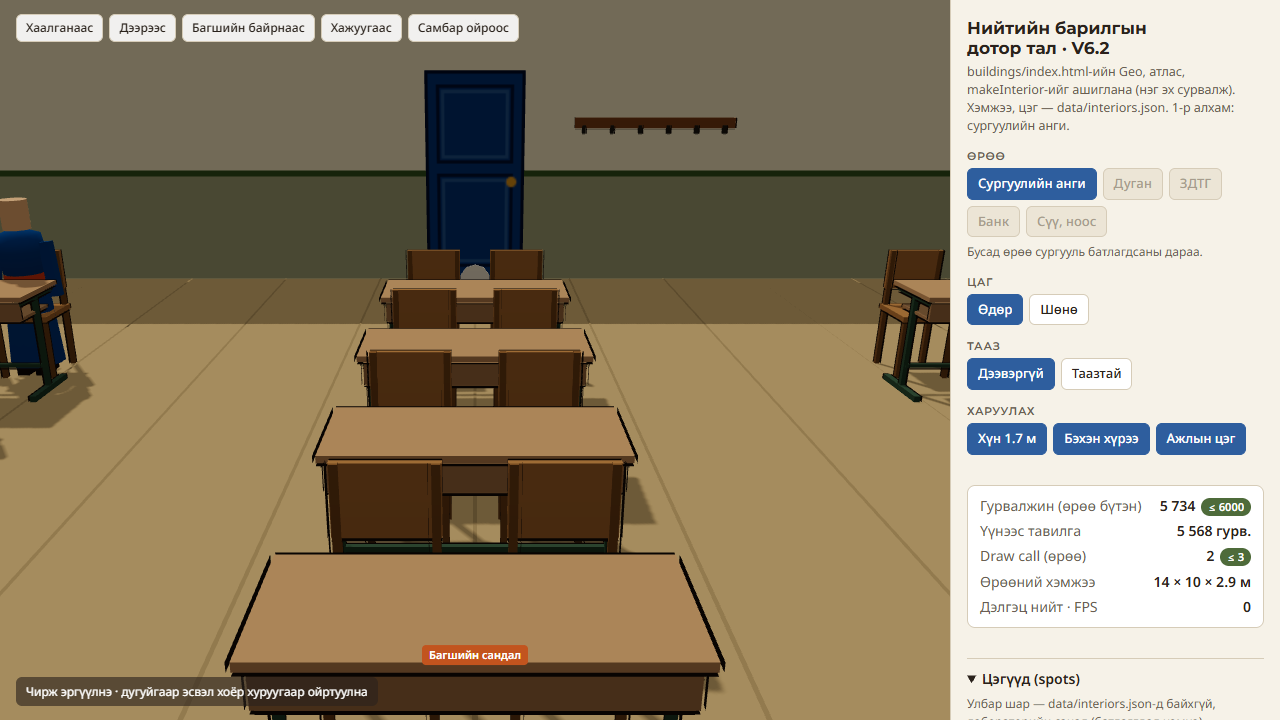
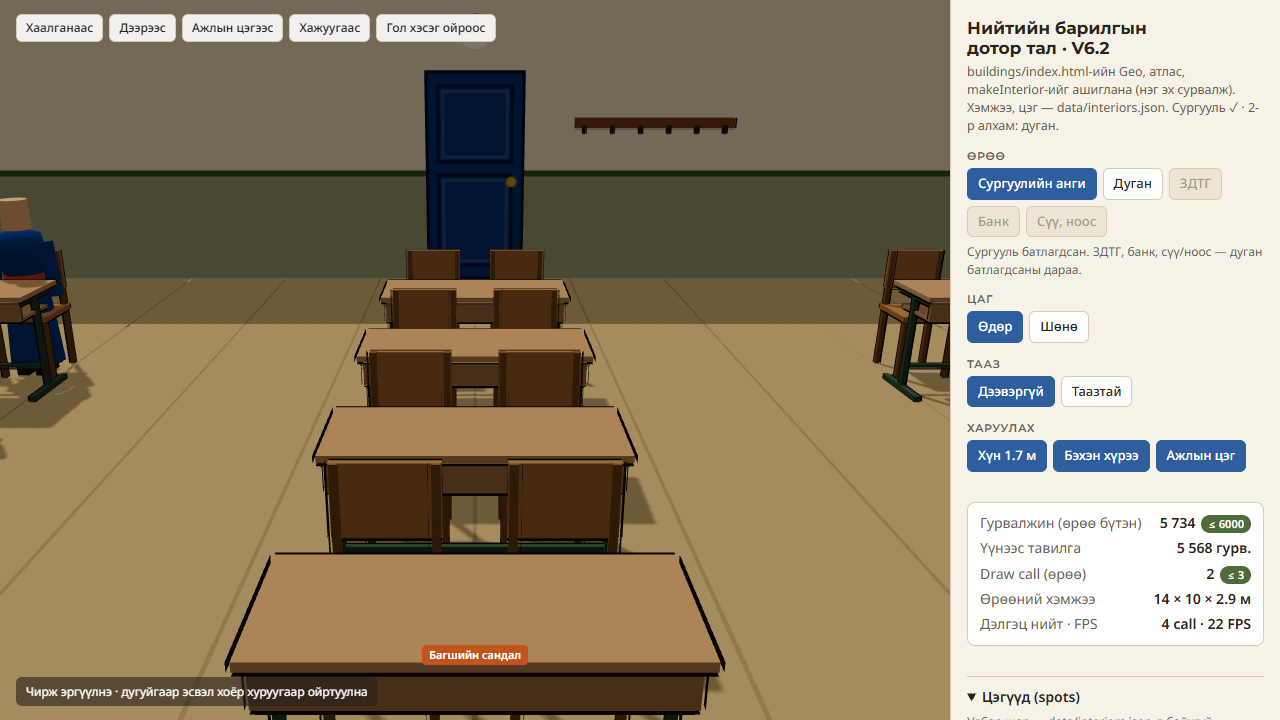
feat(lab): V6.2 дуганы дотор тал (батлагдсан) — тахил, олбог суудлын эгнээ, ламын суудал, хэнгэрэг, хүрд, багана, ялгаа
- хүрдний бичгийн зурвас тойргийн уртад харьцаагаа хадгална (давтагдаж сунахгүй)
- таазтай үед камер өрөөн дотор (гэрэлтүүлэгчийн бараан зурвас гарахгүй)
- buildings Geo-д cy/ty байхгүй тул y-шилжилтийн туслах (сургуулийн цаг шалнаас хаалганы дээр)
- V.md V6.2: сургууль, дуганы тохиргоо ба data/interiors.json-д нэмэх spot жагсаалт
- зураг tools/shots/furniture/

diff --git a/tools/character-lab/furniture.html b/tools/character-lab/furniture.html
@@ -62,9 +62,9 @@ td.new{color:#B0601E;font-weight:600}
   <div id="views">
     <button type="button" id="view-door">Хаалганаас</button>
     <button type="button" id="view-top">Дээрээс</button>
-    <button type="button" id="view-teacher">Багшийн байрнаас</button>
+    <button type="button" id="view-work">Ажлын цэгээс</button>
     <button type="button" id="view-side">Хажуугаас</button>
-    <button type="button" id="view-board">Самбар ойроос</button>
+    <button type="button" id="view-focus">Гол хэсэг ойроос</button>
   </div>
   <div id="tags"></div>
   <div id="hint">Чирж эргүүлнэ · дугуйгаар эсвэл хоёр хуруугаар ойртуулна</div>
@@ -73,10 +73,10 @@ td.new{color:#B0601E;font-weight:600}
 <aside>
   <div>
     <h1>Нийтийн барилгын дотор тал · V6.2</h1>
-    <p class="sub">buildings/index.html-ийн Geo, атлас, makeInterior-ийг ашиглана (нэг эх сурвалж). Хэмжээ, цэг — data/interiors.json. 1-р алхам: сургуулийн анги.</p>
+    <p class="sub">buildings/index.html-ийн Geo, атлас, makeInterior-ийг ашиглана (нэг эх сурвалж). Хэмжээ, цэг — data/interiors.json. Сургууль ✓ · 2-р алхам: дуган.</p>
   </div>
   <fieldset><legend>Өрөө</legend><div class="seg" id="g-room"></div>
-    <p class="note">Бусад өрөө сургууль батлагдсаны дараа.</p></fieldset>
+    <p class="note">Сургууль батлагдсан. ЗДТГ, банк, сүү/ноос — дуган батлагдсаны дараа.</p></fieldset>
   <fieldset><legend>Цаг</legend><div class="seg" id="g-time"></div></fieldset>
   <fieldset><legend>Тааз</legend><div class="seg" id="g-roof"></div></fieldset>
   <fieldset><legend>Харуулах</legend><div class="seg" id="g-show"></div></fieldset>
@@ -104,7 +104,7 @@ async function loadBuildingLib() {
   let code = src.match(/<script type="module">([\s\S]*?)<\/script>/)[1];
   code = code.slice(0, code.indexOf("const canvas = document.getElementById('c')"));
   code = code.replace(/from '\.\/ger\.js'/, `from '${new URL('./buildings/ger.js', location.href)}'`);
-  code += '\nexport { THREE, BUILDING_CONFIG, Geo, rgb, mix, px2uv, panel, shadeDown, sc, buildingAtlas, makeInterior, makeScaleFigure };\n';
+  code += '\nexport { THREE, BUILDING_CONFIG, Geo, rgb, mix, px2uv, panel, shadeDown, sc, buildingAtlas, makeInterior, makeScaleFigure, signRect };\n';
   return import(URL.createObjectURL(new Blob([code], { type: 'text/javascript' })));
 }
 const L = await loadBuildingLib();
@@ -124,8 +124,34 @@ const PUBLIC_INTERIOR = {
     radiator: '#E8E2D4', bookcase: { x: -6.55, z: 2.6, w: 1.6 }, map: { z: -1.2, w: 1.7, h: 1.05 },
     lamps: [[-3.5, -1.5], [3.5, -1.5], [-3.5, 1.5], [3.5, 1.5]],
     work: [{ id: 'teacher_board', label: 'Багш (самбарын өмнө)', x: -1.25, z: -4.1, rot: 0 }, { id: 'teacher_chair', label: 'Багшийн сандал', x: 0, z: -3.85, rot: 0 }],
+    figures: [{ x: -1.25, z: -4.1, rot: 0, h: 1.7 }, { x: -3.8, z: -0.38, rot: Math.PI, h: 1.25 }, { x: 3.2, z: 2.02, rot: Math.PI, h: 1.25 }],
+    views: { door: [0.0, 1.2, 7.4, [0, 1.1, -0.6]], top: [0.0, 0.1, 15.5, [0, 0, 0]], work: [Math.PI, 1.25, 3.3, [0, 1.05, -0.9]], side: [1.5, 1.05, 12, [0, 0.9, 0]], focus: [0.0, 1.45, 4.0, [0, 1.4, -4.6]] },
+  },
+  /* Дуган: хойд хананд шатлалтай тахил (бурхан, гэрэлт хүрээ, долоон аяга, зул, цэцэг, хадаг), төв замын хоёр талд лам нарын
+   * олбог суудлын эгнээ (ширээ, судар), тахилын өмнө ширээт ламын өндөр суудал ба хэнгэрэг, 4 багана (хадаг, ялгаа), хаалганы дэргэд хүрд */
+  temple: {
+    door: { x: 0, w: 1.2, h: 2.3, atlas: 'pubDoor' }, windows: { sides: [1, -1], z: [-1.6, 1.4], w: 1.0, h: 1.0, sill: 1.75 },
+    gold: '#D9A93A', red: '#9A2A1E', maroon: '#6E1E22', yellow: '#E8B83A', blue: '#2E5E9E', green: '#3F7A5A', silk: '#A9CBE8', statue: '#D9A93A',
+    altar: { w: 3.4, d: 1.15, h1: 0.45, w2: 2.6, d2: 0.75, h2: 0.85, backH: 3.2 },
+    rows: { len: 1.6, cushion: 0.62, tableOff: 0.62 },
+    pillars: { x: 1.6, z: [-1.6, 1.4], size: 0.22 }, wheel: { x: 3.75, z: 3.45, r: 0.34, h: 1.1, bandH: 0.5 },
+    lamps: [[-1.6, 0], [1.6, 0], [0, -3.0], [0, 2.4]],
+    work: [{ id: 'lama_head', label: 'Ширээт лам (ламын суудал)', x: -2.82, z: -2.7, rot: Math.PI / 2 }, { id: 'lama_read', label: 'Лам ном уншина', x: -2.82, z: -1.0, rot: Math.PI / 2 },
+      { id: 'lama_drum', label: 'Лам хэнгэрэг цохино', x: 2.82, z: -2.7, rot: -Math.PI / 2 }, { id: 'pilgrim', label: 'Мөргөлчин (хандив · E)', x: 0, z: -1.9, rot: Math.PI }],
+    figures: [{ x: -2.82, z: -2.7, rot: Math.PI / 2, seated: 0.5 }, { x: -2.82, z: -1.33, rot: Math.PI / 2, seated: 0.2 }, { x: -2.82, z: -0.67, rot: Math.PI / 2, seated: 0.2 },
+      { x: 2.82, z: 0.47, rot: -Math.PI / 2, seated: 0.2 }, { x: 2.82, z: -2.7, rot: -Math.PI / 2, seated: 0.2 }, { x: 0, z: -1.9, rot: Math.PI, h: 1.7 }],
+    views: { door: [0.0, 1.15, 6.6, [0, 1.3, -1.0]], top: [0.0, 0.1, 12.5, [0, 0, 0]], work: [-1.3, 1.3, 2.4, [-2.2, 1.0, -2.3]], side: [1.5, 1.05, 10, [0, 1.0, 0]], focus: [0.0, 1.42, 3.4, [0, 1.35, -3.8]] },
   },
 };
+/** buildings Geo-д lathe cy, append ty байхгүй: профайл/оройг y-ээр шилжүүлнэ */
+const lth = (G, o) => G.lathe({ ...o, profile: o.profile.map(([r, y]) => [r, y + (o.cy || 0)]) });
+const appendY = (G, q, phi, x, z, y = 0) => { if (y) for (let i = 1; i < q.p.length; i += 3) q.p[i] += y; G.append(q, phi, x, z); };
+/** Хөндлөн дугуй хавтан (+Z руу харсан): гэрэлт хүрээ, бөмбөр, цаг — босоо lathe-ийг эргүүлнэ */
+function discZ(g, x, y, z, profile, colorAt, segs = 16, dir = 1) {   // dir: +1 — нүүр +Z (хойд хананд), −1 — нүүр −Z (урд хананд)
+  const q = new Geo(px2uv(...BC.atlas.white)); q.lathe({ segs, smooth: false, profile, colorAt, color: colorAt ? undefined : [1, 1, 1] });
+  for (let i = 0; i < q.p.length; i += 3) { const yy = q.p[i + 1], zz = q.p[i + 2], ny = q.n[i + 1], nz = q.n[i + 2]; q.p[i + 1] = -zz * dir; q.p[i + 2] = yy * dir; q.n[i + 1] = -nz * dir; q.n[i + 2] = ny * dir; }
+  appendY(g, q, 0, x, z, y);
+}
 
 /** Монгол улсын хилийн ойролцоо хэлбэр (газрын зургийн самбарт): [x, y] 0…1 */
 const MN_SHAPE = [[0.02, 0.62], [0.1, 0.8], [0.22, 0.9], [0.34, 0.86], [0.46, 0.94], [0.56, 0.86], [0.66, 0.88], [0.78, 0.8], [0.9, 0.74], [0.98, 0.6], [0.92, 0.48], [0.8, 0.44], [0.7, 0.3], [0.56, 0.12], [0.42, 0.1], [0.3, 0.2], [0.16, 0.34], [0.06, 0.44]];
@@ -149,11 +175,12 @@ function makeInteriorEx(kind, room) {
   const D = T.door, W = T.windows, tr = rgb(BC.palette.trim, 0.7), sill = rgb('#F4F1EA');
   wallHoles([-hw, -hd], [hw, -hd], [0, 0, 1], []);                                                                       // хойд (самбар)
   wallHoles([-hw, hd], [hw, hd], [0, 0, -1], [{ a0: hw + D.x - D.w / 2, a1: hw + D.x + D.w / 2, y0: 0, y1: D.h }]);        // урд: хаалга
-  const wx = W.side * hw, winHoles = W.z.map(z => ({ a0: hd + z - W.w / 2, a1: hd + z + W.w / 2, y0: W.sill, y1: W.sill + W.h }));
-  wallHoles([wx, -hd], [wx, hd], [-W.side, 0, 0], W.side > 0 ? winHoles : []); wallHoles([-wx, -hd], [-wx, hd], [W.side, 0, 0], W.side > 0 ? [] : winHoles);
-  for (const z of W.z) { panel(shell, [wx, W.sill + W.h / 2, z], [-W.side, 0, 0], W.w / 2, W.h / 2, 0.03, A.window, tr);   // цонх (атлас), тавцан
-    B(wx - W.side * 0.22, W.sill - 0.04, z - W.w / 2 - 0.06, wx, W.sill, z + W.w / 2 + 0.06, sill, shell); }
-  panel(shell, [D.x, D.h / 2, hd], [0, 0, -1], D.w / 2, D.h / 2, 0.03, A.door, tr);                                       // хаалга (атлас)
+  const sides = W.sides ?? [W.side], winHoles = W.z.map(z => ({ a0: hd + z - W.w / 2, a1: hd + z + W.w / 2, y0: W.sill, y1: W.sill + W.h }));
+  for (const sx of [1, -1]) wallHoles([sx * hw, -hd], [sx * hw, hd], [-sx, 0, 0], sides.includes(sx) ? winHoles : []);
+  for (const sx of sides) for (const z of W.z) { const wx = sx * hw;
+    panel(shell, [wx, W.sill + W.h / 2, z], [-sx, 0, 0], W.w / 2, W.h / 2, 0.03, A.window, tr);                         // цонх (атлас), тавцан
+    B(Math.min(wx, wx - sx * 0.22), W.sill - 0.04, z - W.w / 2 - 0.06, Math.max(wx, wx - sx * 0.22), W.sill, z + W.w / 2 + 0.06, sill, shell); }
+  panel(shell, [D.x, D.h / 2, hd], [0, 0, -1], D.w / 2, D.h / 2, 0.03, A[D.atlas ?? 'door'], tr);                        // хаалга (атлас)
   // шал (банз), тааз, хормой
   shell.quad([[-hw, 0, -hd], [hw, 0, -hd], [hw, 0, hd], [-hw, 0, hd]], [0, 1, 0], rgb(room.floor));
   for (let k = 1; k < 14; k++) { const x = -hw + k * room.w / 14; shell.quad([[x - 0.01, 0.002, -hd], [x + 0.01, 0.002, -hd], [x + 0.01, 0.002, hd], [x - 0.01, 0.002, hd]], [0, 1, 0], sc(rgb(room.floor), 0.78)); }
@@ -163,7 +190,7 @@ function makeInteriorEx(kind, room) {
     ceil.box(lx, H - 0.09, lz, 1.18, 0.02, 0.12, [1, 1, 1]); for (let i = ceil.u.length - 72; i < ceil.u.length; i += 2) { ceil.u[i] = lu[0]; ceil.u[i + 1] = lu[1]; }   // гэрэлтэх хэсэг: атласын чийдэн (шөнө гэрэлтэнэ)
     lights.push(new THREE.Vector3(lx, H - 0.3, lz)); }
   const work = T.work.map(w => ({ ...w }));
-  const placed = kind === 'school' ? furnishSchool(g, T, room, B) : [];
+  const placed = { school: furnishSchool, temple: furnishTemple }[kind](g, T, room, B);
   return { shell, ceil, furn: g, lights, work, placed, floorY: 0, ceilY: H };
 }
 
@@ -225,7 +252,7 @@ function furnishSchool(g, T, room, B) {
   { const z = hd - 0.02; B(-2.6, 1.55, z - 0.04, -1.0, 1.65, z, C('#9A6A42')); for (let k = 0; k < 6; k++) B(-2.5 + k * 0.28, 1.5, z - 0.1, -2.47 + k * 0.28, 1.58, z - 0.04, C('#4A4640'));
     { const q = new Geo(px2uv(...BC.atlas.white)); q.lathe({ segs: 10, smooth: false, profile: [[0.16, 0], [0.16, 0.03], [0, 0.03]], color: C('#F4F1EA') });   // цагийн нүүр: босоо lathe-ийг хананд наах (y → −z)
       for (let i = 0; i < q.p.length; i += 3) { const yy = q.p[i + 1], zz = q.p[i + 2], ny = q.n[i + 1], nz = q.n[i + 2]; q.p[i + 1] = zz; q.p[i + 2] = -yy; q.n[i + 1] = nz; q.n[i + 2] = -ny; }
-      g.append(q, 0, 0, z, 2.45); }
+      appendY(g, q, 0, 0, z, 2.45); }
     B(-0.005, 2.45, z - 0.055, 0.005, 2.56, z - 0.045, C('#2A2622')); B(-0.005, 2.445, z - 0.055, 0.07, 2.455, z - 0.045, C('#2A2622')); }
   return placed;
 }
@@ -243,6 +270,123 @@ function studentDesk(g, x, z, K) {
   g.box(x, K.h - 0.1, z - K.d / 2 + 0.03, K.w - 0.06, 0.12, 0.02, sc(top, 0.8));
   for (const sx of [-1, 1]) { const lx = x + sx * (K.w / 2 - 0.04); g.box(lx, (K.h - 0.03) / 2, z, 0.03, K.h - 0.03, 0.03, fr); g.box(lx, 0.02, z, 0.04, 0.04, K.d - 0.04, fr); g.box(lx, K.h - 0.05, z, 0.03, 0.03, K.d - 0.06, fr); }
   g.box(x, 0.18, z, K.w - 0.08, 0.025, 0.025, fr);
+}
+
+/* ---------- Дуган ---------- */
+function furnishTemple(g, T, room, B) {
+  const pan = (c, n, hx, hy, out, r, side) => panel(g, c, n, hx, hy, out, r, side ?? rgb(T.gold));   // panel: хажуугийн өнгө алт
+  const hw = room.w / 2, hd = room.d / 2, H = room.h, A = BC.atlas, C = rgb, spot = id => room.spots.find(s => s.id === id), placed = [];
+  const gold = C(T.gold), red = C(T.red), maroon = C(T.maroon), yellow = C(T.yellow), blue = C(T.blue), green = C(T.green), silk = C(T.silk), lu = px2uv(...A.lamp);
+  const W = px2uv(...A.white), sub = () => new Geo(W);
+  const flame = (q, x, y, z) => { const n0 = q.u.length; lth(q, { segs: 5, cx: x, cz: z, cy: y, color: C('#FFB35C'), profile: [[0.012, 0], [0.018, 0.025], [0, 0.06]] }); for (let i = n0; i < q.u.length; i += 2) { q.u[i] = lu[0]; q.u[i + 1] = lu[1]; } };   // гал: атласын чийдэн (шөнө гэрэлтэнэ)
+  const zul = (q, x, y, z) => { lth(q, { segs: 6, cx: x, cz: z, cy: y, color: gold, smooth: false, profile: [[0.04, 0], [0.025, 0.02], [0.012, 0.07], [0.045, 0.1], [0.05, 0.13], [0, 0.125]] }); flame(q, x, y + 0.125, z); };
+  // ===== тахил (хойд хананд, spot altar-ын x): хоёр шат, хээтэй нүүр, ар хөшиг, гэрэлт хүрээ, бурхан, тахилын эд =====
+  { const s = spot('altar'), Al = T.altar, ax = s.x, bz = -hd;
+    B(ax - Al.w / 2, 0, bz, ax + Al.w / 2, Al.h1, bz + Al.d, maroon);
+    for (let k = 0; k < 4; k++) pan([ax - Al.w / 2 + Al.w * (k + 0.5) / 4, Al.h1 / 2, bz + Al.d], [0, 0, 1], Al.w / 8 - 0.05, Al.h1 / 2 - 0.06, 0.005, A.ornament);
+    B(ax - Al.w / 2 - 0.02, Al.h1, bz, ax + Al.w / 2 + 0.02, Al.h1 + 0.03, bz + Al.d + 0.02, gold);
+    B(ax - Al.w2 / 2, Al.h1, bz, ax + Al.w2 / 2, Al.h2, bz + Al.d2, red);
+    for (let k = 0; k < 3; k++) pan([ax - Al.w2 / 2 + Al.w2 * (k + 0.5) / 3, (Al.h1 + Al.h2) / 2, bz + Al.d2], [0, 0, 1], Al.w2 / 6 - 0.05, (Al.h2 - Al.h1) / 2 - 0.05, 0.005, A.ornament);
+    B(ax - Al.w2 / 2 - 0.02, Al.h2, bz, ax + Al.w2 / 2 + 0.02, Al.h2 + 0.03, bz + Al.d2 + 0.02, gold);
+    // ар хөшиг: бараан улаан хавтан, алтан хүрээ, дээд талын хээтэй хөндлөвч
+    B(ax - Al.w / 2, Al.h1, bz, ax + Al.w / 2, Al.backH, bz + 0.05, C('#5A1A16')); B(ax - Al.w / 2 - 0.05, Al.backH, bz, ax + Al.w / 2 + 0.05, Al.backH + 0.2, bz + 0.1, gold);
+    pan([ax, Al.backH + 0.1, bz + 0.1], [0, 0, 1], Al.w / 2, 0.08, 0.005, A.ornament);
+    for (const sx of [-1, 1]) B(ax + sx * Al.w / 2 - 0.06, Al.h1, bz, ax + sx * Al.w / 2 + 0.06, Al.backH, bz + 0.1, gold);
+    // гэрэлт хүрээ (бие, толгой): өнгөт цагиргууд
+    const sy = Al.h2 + 0.03, cz = bz + 0.36;
+    discZ(g, ax, sy + 0.62, bz + 0.07, [[0.82, 0], [0.82, 0.015], [0.7, 0.015], [0.58, 0.015], [0, 0.015]], i => [gold, gold, C('#4F8FC0'), green][i] ?? green, 20);
+    discZ(g, ax, sy + 1.12, bz + 0.09, [[0.3, 0], [0.3, 0.015], [0.22, 0.015], [0, 0.015]], i => [gold, gold, C('#E07A3A')][i], 16);
+    // бурхан: дэлбээт суурь, завилсан хөл, бие, толгой (хөх үс, оройн товойлт), өвөр дээрх гар
+    const q = sub(), st = C(T.statue), stD = sc(st, 0.82);
+    lth(q, { segs: 12, profile: [[0.5, 0], [0.55, 0.05], [0.5, 0.1], [0.42, 0.16], [0.36, 0.18]], colorAt: i => (i % 2 ? C('#D9707A') : gold) });   // дэлбээт суурь
+    lth(q, { segs: 12, profile: [[0.42, 0.18], [0.47, 0.24], [0.4, 0.33], [0.2, 0.36], [0, 0.36]], color: stD });   // хөл
+    lth(q, { segs: 12, profile: [[0.24, 0.32], [0.27, 0.45], [0.24, 0.62], [0.16, 0.74], [0.08, 0.79]], color: st });   // бие
+    lth(q, { segs: 12, profile: [[0.08, 0.78], [0.12, 0.84], [0.135, 0.92], [0.12, 0.99], [0.1, 1.01], [0.06, 1.05], [0.065, 1.08], [0, 1.12]], colorAt: i => (i >= 3 ? C('#2E4A8E') : st) });   // толгой
+    q.box(0, 0.4, 0.2, 0.26, 0.06, 0.12, st); q.box(0, 0.37, 0.27, 0.34, 0.02, 0.1, silk);                                    // гар, өвөр дээрх хадаг
+    for (let i = 0; i < q.p.length; i += 3) { q.p[i + 2] *= 0.72; }
+    appendY(g, q, 0, ax, cz, sy);
+    // тахилын эд: доод шатанд долоон аяга, хоёр талд зул; дунд шатанд цэцэгтэй ваар, жимсний таваг, хүж; хадаг унжина
+    const fz = bz + Al.d - 0.18;
+    for (let k = 0; k < 7; k++) lth(g, { segs: 7, cx: ax - 0.78 + k * 0.26, cz: fz, cy: Al.h1 + 0.03, color: gold, smooth: false, profile: [[0.035, 0], [0.06, 0.055], [0.052, 0.055], [0, 0.048]] });
+    for (const x of [-1.45, -1.22, 1.22, 1.45]) zul(g, ax + x, Al.h1 + 0.03, fz);
+    for (const sx of [-1, 1]) { const vx = ax + sx * 1.0, vz = bz + Al.d2 - 0.2;
+      lth(g, { segs: 8, cx: vx, cz: vz, cy: Al.h2 + 0.03, color: C('#4F8FC0'), profile: [[0.06, 0], [0.09, 0.08], [0.05, 0.18], [0.04, 0.22], [0.06, 0.25], [0, 0.25]] });
+      for (let k = 0; k < 5; k++) { const a = k * 1.256; g.box(vx + Math.sin(a) * 0.07, Al.h2 + 0.33 + (k % 2) * 0.04, vz + Math.cos(a) * 0.07, 0.07, 0.06, 0.07, [C('#E05A6A'), yellow, C('#F4F1EA')][k % 3]); }
+      lth(g, { segs: 8, cx: ax + sx * 0.62, cz: vz + 0.08, cy: Al.h2 + 0.03, color: gold, smooth: false, profile: [[0.13, 0], [0.14, 0.03], [0, 0.03]] });
+      for (let k = 0; k < 3; k++) g.box(ax + sx * 0.62 + (k - 1) * 0.06, Al.h2 + 0.08, vz + 0.08, 0.06, 0.06, 0.06, [C('#D9622B'), C('#B5402A'), yellow][k]);
+      g.beam([ax + sx * 0.55, Al.h2 + 0.02, bz + Al.d2 + 0.01], [ax + sx * 0.6, Al.h1 + 0.06, bz + Al.d2 + 0.03], 0.13, 0.008, silk);   // унжсан хадаг
+      zul(g, ax + sx * 1.22, Al.h2 + 0.03, bz + Al.d2 - 0.12); }
+    lth(g, { segs: 7, cx: ax, cz: bz + Al.d - 0.05, cy: Al.h1 + 0.03, color: C('#8A6A3A'), profile: [[0.07, 0], [0.08, 0.08], [0, 0.08]] });
+    for (let k = 0; k < 3; k++) g.beam([ax - 0.02 + k * 0.02, Al.h1 + 0.1, bz + Al.d - 0.05], [ax - 0.05 + k * 0.05, Al.h1 + 0.36, bz + Al.d - 0.08], 0.006, 0.006, C('#B5402A'));   // хүж
+    placed.push({ ...s, note: 'хойд хананд' }); }
+  // ===== хандивын хайрцаг (spot donation, мөргөлчний E цэг) =====
+  { const s = spot('donation'), x = s.x, z = s.z;
+    B(x - 0.28, 0, z - 0.2, x + 0.28, 0.5, z + 0.2, red); B(x - 0.3, 0.5, z - 0.22, x + 0.3, 0.54, z + 0.22, gold); B(x - 0.1, 0.54, z - 0.015, x + 0.1, 0.545, z + 0.015, C('#1A130D'));
+    pan([x, 0.27, z + 0.2], [0, 0, 1], 0.22, 0.17, 0.005, A.ornament); placed.push(s); }
+  // ===== олбог суудлын эгнээ: тавцан, олбог (хоёр лам), өмнө нь намхан ширээ, судар — төв зам руу харна =====
+  const R = T.rows;
+  for (const s of room.spots.filter(p => p.kind === 'seat')) { const x = s.x, z0 = s.z, f = x < 0 ? 1 : -1;   // f: харах тал (+X баруун эгнээ)
+    B(x - 0.38, 0, z0 - R.len / 2, x + 0.38, 0.1, z0 + R.len / 2, maroon);
+    for (const dz of [-R.len / 4, R.len / 4]) { const z = z0 + dz;
+      B(x - R.cushion / 2, 0.1, z - 0.36, x + R.cushion / 2, 0.2, z + 0.36, yellow); B(x - R.cushion / 2 + 0.03, 0.2, z - 0.33, x + R.cushion / 2 - 0.03, 0.205, z + 0.33, C('#C9402A'));
+      const tx = x + f * R.tableOff;   // ширээ
+      B(tx - 0.2, 0.3, z - 0.32, tx + 0.2, 0.36, z + 0.32, red); for (const sz of [-1, 1]) B(tx - 0.18, 0, z + sz * 0.28 - 0.025, tx + 0.18, 0.3, z + sz * 0.28 + 0.025, sc(red, 0.75));
+      pan([tx + f * 0.2, 0.17, z], [f, 0, 0], 0.26, 0.11, 0.004, A.ornament);
+      B(tx - 0.06, 0.36, z - 0.16, tx + 0.06, 0.42, z + 0.16, yellow); B(tx - 0.065, 0.39, z - 0.17, tx + 0.065, 0.4, z + 0.17, C('#B5402A')); }   // судар (боодолтой)
+    placed.push(s); }
+  // ===== ширээт ламын өндөр суудал (баруун эгнээний толгойд), эсрэг талд хэнгэрэг =====
+  { const w = T.work.find(p => p.id === 'lama_head'), x = w.x, z = w.z;
+    B(x - 0.42, 0, z - 0.42, x + 0.42, 0.45, z + 0.42, maroon); pan([x + 0.42, 0.22, z], [1, 0, 0], 0.36, 0.17, 0.005, A.ornament);
+    B(x - 0.4, 0.45, z - 0.4, x + 0.4, 0.55, z + 0.4, yellow); B(x - 0.48, 0.45, z - 0.44, x - 0.38, 1.25, z + 0.44, red); B(x - 0.5, 1.25, z - 0.46, x - 0.36, 1.3, z + 0.46, gold);
+    B(x + 0.62, 0.4, z - 0.3, x + 1.0, 0.48, z + 0.3, red); for (const sz of [-1, 1]) B(x + 0.64, 0, z + sz * 0.26 - 0.02, x + 0.98, 0.4, z + sz * 0.26 + 0.02, sc(red, 0.75));
+    B(x + 0.75, 0.48, z - 0.12, x + 0.87, 0.53, z + 0.12, yellow); lth(g, { segs: 6, cx: x + 0.82, cz: z + 0.22, cy: 0.48, color: gold, profile: [[0.03, 0], [0.04, 0.08], [0, 0.1]] });   // судар, хонх
+    placed.push({ id: w.id, kind: 'seat', x, z, rot: w.rot, proposed: true }); }
+  { const w = T.work.find(p => p.id === 'lama_drum'), x = w.x + -0.95, z = w.z, dr = 0.36;   // хэнгэрэг: хоёр шон, хөндлөвч, өлгөөтэй бөмбөр (лам руу харна)
+    for (const sz of [-1, 1]) B(x - 0.03, 0, z + sz * (dr + 0.1) - 0.03, x + 0.03, 1.3, z + sz * (dr + 0.1) + 0.03, red);
+    B(x - 0.03, 1.3, z - dr - 0.13, x + 0.03, 1.36, z + dr + 0.13, gold);
+    const q = sub(); lth(q, { segs: 14, smooth: false, profile: [[dr, -0.11], [dr + 0.02, -0.1], [dr + 0.02, 0.1], [dr, 0.11], [0, 0.11]], colorAt: i => (i === 1 ? red : i === 4 ? C('#E8DCC0') : gold) });
+    lth(q, { segs: 14, smooth: false, profile: [[0, -0.11], [dr, -0.11]], color: C('#E8DCC0') });
+    for (let i = 0; i < q.p.length; i += 3) { const px = q.p[i], py = q.p[i + 1], nx = q.n[i], ny = q.n[i + 1]; q.p[i] = py; q.p[i + 1] = -px; q.n[i] = ny; q.n[i + 1] = -nx; }   // тэнхлэг X
+    appendY(g, q, 0, x, z, 0.9); g.beam([x, 1.3, z], [x, 0.9 + dr, z], 0.02, 0.02, C('#3A2618'));
+    g.beam([x + 0.5, 0.25, z + 0.3], [x + 0.2, 0.75, z + 0.1], 0.02, 0.02, C('#C9A24E'));   // цохиур
+    placed.push({ id: 'drum', kind: 'drum', x, z, rot: -Math.PI / 2, proposed: true }); }
+  // ===== 4 багана: суурь, улаан бие, хөх-ногоон толгой, алтан хээ, хадаг уясан; дээр нь хөндлөн дам нуруу, унжсан ялгаа =====
+  const Pl = T.pillars;
+  for (const sx of [-1, 1]) { const x = sx * Pl.x, s2 = Pl.size / 2;
+    for (const z of Pl.z) { B(x - s2 - 0.05, 0, z - s2 - 0.05, x + s2 + 0.05, 0.12, z + s2 + 0.05, C('#8C8478')); B(x - s2, 0.12, z - s2, x + s2, H - 0.45, z + s2, red);
+      B(x - s2 - 0.02, H - 0.62, z - s2 - 0.02, x + s2 + 0.02, H - 0.52, z + s2 + 0.02, gold); B(x - s2 - 0.06, H - 0.52, z - s2 - 0.06, x + s2 + 0.06, H - 0.45, z + s2 + 0.06, green);
+      B(x - 0.35, H - 0.45, z - s2 - 0.04, x + 0.35, H - 0.32, z + s2 + 0.04, blue);
+      B(x - s2 - 0.012, 1.45, z - s2 - 0.012, x + s2 + 0.012, 1.55, z + s2 + 0.012, silk); g.beam([x + sx * (s2 + 0.01), 1.5, z + s2], [x + sx * (s2 + 0.02), 0.95, z + s2 + 0.05], 0.1, 0.006, silk); }
+    B(x - 0.1, H - 0.32, -hd, x + 0.1, H - 0.1, hd, red); B(x - 0.105, H - 0.26, -hd, x + 0.105, H - 0.2, hd, gold);   // дам нуруу
+    { const bz = (Pl.z[0] + Pl.z[1]) / 2, top = H - 0.32, cols = [yellow, red, blue, green, C('#F4F1EA')];   // ялгаа: давхар өнгөт цилиндр
+      lth(g, { segs: 10, cx: x, cz: bz, cy: 0, profile: [[0, top - 1.02], [0.2, top - 1.0], [0.23, top - 0.82], [0.21, top - 0.8], [0.21, top - 0.54], [0.19, top - 0.52], [0.19, top - 0.3], [0.17, top - 0.28], [0.17, top - 0.04], [0.02, top]], colorAt: i => cols[(8 - i) % cols.length], smooth: false });   /* доороос дээш (нормал гадагш) */ } }
+  // ===== улаан хивс (төв зам) =====
+  B(-0.8, 0.002, -hd + T.altar.d + 0.15, 0.8, 0.012, hd - 0.5, C('#8A2A2E')); for (const sx of [-1, 1]) B(sx * 0.8 - 0.06, 0.003, -hd + T.altar.d + 0.15, sx * 0.8, 0.014, hd - 0.5, gold);
+  // ===== танка (хажуу хананд, цонхны хооронд): торгон хүрээ, зураг (атласын niche) =====
+  for (const sx of [-1, 1]) { const x = sx * hw - sx * 0.02, z = (T.windows.z[0] + T.windows.z[1]) / 2, y = 1.75;
+    B(Math.min(x, x - sx * 0.02), y - 0.75, z - 0.45, Math.max(x, x - sx * 0.02), y + 0.75, z + 0.45, blue); B(Math.min(x, x - sx * 0.03), y - 0.62, z - 0.36, Math.max(x, x - sx * 0.03), y + 0.62, z + 0.36, yellow);
+    pan([x - sx * 0.03, y + 0.03, z], [-sx, 0, 0], 0.3, 0.52, 0.005, A.niche); g.beam([x - sx * 0.04, y + 0.8, z - 0.5], [x - sx * 0.04, y + 0.8, z + 0.5], 0.03, 0.03, C('#3A2618')); }
+  // ===== хүрд (хаалганы дэргэд): тавцан, хүрээ, бичигтэй цилиндр (атласын wheelBand), алтан таг =====
+  { const K = T.wheel, x = K.x, z = K.z, r = K.r, h = K.h, v0 = 1 - (A.wheelBand[1] - 1) / A.h, v1 = 1 - (A.wheelBand[0] + 1) / A.h;
+    B(x - 0.5, 0, z - 0.5, x + 0.5, 0.12, z + 0.5, C('#8C8478'));
+    const bh = K.bandH, a = (h - bh) / 2, e = 0.0005, bandLen = (A.size * bh) / (A.wheelBand[1] - A.wheelBand[0]), ku = Math.min(1, (2 * Math.PI * r) / bandLen), wu = px2uv(...A.white);
+    lth(g, { segs: 14, cx: x, cz: z, cy: 0.22, smooth: false, profile: [[r, 0], [r, a], [r, a + e], [r, a + bh], [r, a + bh + e], [r, h]],   // доор/дээр улаан, голд бичгийн зурвас (харьцаа хадгална)
+      colorAt: i => (i === 2 ? [1, 1, 1] : i === 0 || i === 4 ? red : gold), uvAt: (pi, f) => (pi === 2 ? [f * ku, v0] : pi === 3 ? [f * ku, v1] : wu) });
+    lth(g, { segs: 14, cx: x, cz: z, cy: 0.12, color: gold, smooth: false, profile: [[r + 0.03, 0], [r + 0.03, 0.1], [0, 0.1]] });
+    lth(g, { segs: 14, cx: x, cz: z, cy: 0.22 + h, color: gold, smooth: false, profile: [[r + 0.03, 0], [r + 0.03, 0.08], [r * 0.5, 0.18], [0.04, 0.24], [0, 0.3]] });
+    for (const [px, pz] of [[-1, -1], [1, -1], [-1, 1], [1, 1]]) B(x + px * 0.44 - 0.03, 0.12, z + pz * 0.44 - 0.03, x + px * 0.44 + 0.03, h + 0.62, z + pz * 0.44 + 0.03, red);
+    B(x - 0.5, h + 0.62, z - 0.5, x + 0.5, h + 0.7, z + 0.5, gold); placed.push({ id: 'prayer_wheel', kind: 'wheel', x, z, rot: 0, proposed: true }); }
+  return placed;
+}
+/** Олбог дээр завилж суусан лам (жишиг, тоглоомын дүр биш): улаан хүрэн нөмрөг, шар энгэр */
+function makeSeated(base = 0.2) {
+  const q = new Geo(px2uv(...BC.atlas.white)), robe = rgb('#7A1E22'), sash = rgb('#E8B83A'), skin = rgb('#E2B890');
+  q.lathe({ segs: 12, color: robe, profile: [[0.34, 0], [0.36, 0.08], [0.3, 0.16], [0.2, 0.19]] });
+  q.lathe({ segs: 12, color: robe, profile: [[0.21, 0.16], [0.23, 0.42], [0.19, 0.6], [0.07, 0.64]] });
+  q.lathe({ segs: 12, smooth: false, color: sash, profile: [[0.225, 0.4], [0.225, 0.46]] });
+  q.lathe({ segs: 12, smooth: false, color: skin, profile: [[0.105, 0.64], [0.105, 0.88], [0, 0.88]] });
+  for (let i = 0; i < q.p.length; i += 3) q.p[i + 1] += base;
+  const m = new THREE.Mesh(q.build(), new THREE.MeshLambertMaterial({ vertexColors: true })); m.castShadow = true; return m;
 }
 
 /* =====================================================================
@@ -294,8 +438,8 @@ function rebuild() {
   it.lights.forEach((p, i) => { if (lamps[i]) { lamps[i].position.copy(p); lamps[i].color.set(room.light.color); } });
   key.position.set(4, room.h + 7, 6);
   people.clear(); markers.clear(); for (const t of [...tags.children]) t.remove();
-  if (state.figure) { const t = L.makeScaleFigure(1.7), w = it.work[0]; t.position.set(w.x, 0, w.z); t.rotation.y = w.rot; people.add(t);
-    for (const [x, z] of [[-3.8, -0.8 + 0.42], [3.2, 1.6 + 0.42]]) { const s = L.makeScaleFigure(1.25); s.position.set(x, 0, z); s.rotation.y = Math.PI; people.add(s); } }
+  if (state.figure) for (const f of PUBLIC_INTERIOR[state.room].figures) {   // жишиг: хүн 1.7 м, хүүхэд 1.25 м, суусан лам
+    const t = f.seated !== undefined ? makeSeated(f.seated) : L.makeScaleFigure(f.h); t.position.set(f.x, 0, f.z); t.rotation.y = f.rot; people.add(t); }
   if (state.spots) for (const w of it.work) { const m = new THREE.Mesh(new THREE.RingGeometry(0.18, 0.24, 28), new THREE.MeshBasicMaterial({ color: '#C2541E' })); m.rotation.x = -Math.PI / 2; m.position.set(w.x, 0.015, w.z); markers.add(m);
     const d = document.createElement('div'); d.className = 'tag'; d.textContent = w.label; d._pos = new THREE.Vector3(w.x, 1.95, w.z); tags.append(d); }
   applyEnv();
@@ -325,16 +469,15 @@ function seg(id, items, get, set) {
   paint(); return paint;
 }
 const paints = [
-  seg('g-room', [{ v: 'school', label: 'Сургуулийн анги' }, { v: 'temple', label: 'Дуган', disabled: true }, { v: 'admin', label: 'ЗДТГ', disabled: true }, { v: 'bank', label: 'Банк', disabled: true }, { v: 'milk', label: 'Сүү, ноос', disabled: true }], v => state.room === v, v => { state.room = v; }),
+  seg('g-room', [{ v: 'school', label: 'Сургуулийн анги' }, { v: 'temple', label: 'Дуган' }, { v: 'admin', label: 'ЗДТГ', disabled: true }, { v: 'bank', label: 'Банк', disabled: true }, { v: 'milk', label: 'Сүү, ноос', disabled: true }], v => state.room === v, v => { state.room = v; setView('door'); }),
   seg('g-time', [{ v: false, label: 'Өдөр' }, { v: true, label: 'Шөнө' }], v => state.night === v, v => { state.night = v; }),
   seg('g-roof', [{ v: false, label: 'Дээвэргүй' }, { v: true, label: 'Таазтай' }], v => state.roof === v, v => { state.roof = v; }),
   seg('g-show', [{ v: 'figure', label: 'Хүн 1.7 м' }, { v: 'outline', label: 'Бэхэн хүрээ' }, { v: 'spots', label: 'Ажлын цэг' }], v => state[v], v => { state[v] = !state[v]; }),
 ];
 
 const orbit = { th: 0.55, ph: 0.95, d: 13, target: new THREE.Vector3(0, 0.9, -0.3) };
-const views = { door: [0.0, 1.2, 7.4, [0, 1.1, -0.6]], top: [0.0, 0.1, 15.5, [0, 0, 0]], teacher: [Math.PI, 1.25, 3.3, [0, 1.05, -0.9]],   /* камер самбарын өмнө (z ≈ −4.0), хананы дотор */ side: [1.5, 1.05, 12, [0, 0.9, 0]], board: [0.0, 1.45, 4.0, [0, 1.4, -4.6]] };
-const setView = k => { const v = views[k]; [orbit.th, orbit.ph, orbit.d] = v; orbit.target.set(...v[3]); };
-for (const k in views) document.getElementById('view-' + k).addEventListener('click', () => setView(k));
+const setView = k => { const v = PUBLIC_INTERIOR[state.room].views[k]; [orbit.th, orbit.ph, orbit.d] = v; orbit.target.set(...v[3]); };   // өрөө бүрийн камер (PUBLIC_INTERIOR.*.views)
+for (const k of ['door', 'top', 'work', 'side', 'focus']) document.getElementById('view-' + k).addEventListener('click', () => setView(k));
 const ptrs = new Map(); let pinch = 0;
 canvas.addEventListener('pointerdown', e => { canvas.setPointerCapture(e.pointerId); ptrs.set(e.pointerId, [e.clientX, e.clientY]); });
 canvas.addEventListener('pointermove', e => {
@@ -356,6 +499,7 @@ function frame(now) {
   const dt = Math.min(0.05, (now - last) / 1000); last = now;
   const sp = Math.sin(orbit.ph);
   camera.position.set(orbit.target.x + orbit.d * sp * Math.sin(orbit.th), orbit.target.y + orbit.d * Math.cos(orbit.ph), orbit.target.z + orbit.d * sp * Math.cos(orbit.th));
+  if (state.roof && built) { const r = built.room, m = 0.25; camera.position.set(Math.max(-r.w / 2 + m, Math.min(r.w / 2 - m, camera.position.x)), Math.min(r.h - 0.35, camera.position.y), Math.max(-r.d / 2 + m, Math.min(r.d / 2 - m, camera.position.z))); }
   camera.lookAt(orbit.target);
   renderer.render(scene, camera);
   for (const t of tags.children) { v3.copy(t._pos).project(camera); t.style.display = v3.z < 1 ? 'block' : 'none'; t.style.left = ((v3.x + 1) / 2 * stage.clientWidth) + 'px'; t.style.top = ((1 - v3.y) / 2 * stage.clientHeight) + 'px'; }

diff --git a/docs/plan/V.md b/docs/plan/V.md
@@ -204,6 +204,19 @@ V0–V5 дүрслэлийг бүтнээр нь дуусгаж, мал амьт
 ```
 Тэмдэглэл: самбар нь spot `board` (z −4.6)-ийн x-ээр хойд хананд тулна; `work` — NPC-ийн ажлын цэг (багш самбарын өмнө / сандал дээр). Цонх +X хананд — сургуулийн барилгын цонхны талтай тааруулах.
 
+**Дуган — батлагдсан.** 9.4 × 9 × 3.7 м, 4 634 гурвалжин (тавилга 4 322), 2 draw call. `PUBLIC_INTERIOR.temple`: `door { w: 1.2, h: 2.3, atlas: 'pubDoor' }` · `windows { sides: [1, -1], z: [-1.6, 1.4], w: 1.0, h: 1.0, sill: 1.75 }` · өнгө `gold #D9A93A, red #9A2A1E, maroon #6E1E22, yellow #E8B83A, blue #2E5E9E, green #3F7A5A, silk #A9CBE8` · `altar { w: 3.4, d: 1.15, h1: 0.45, w2: 2.6, d2: 0.75, h2: 0.85, backH: 3.2 }` (хойд хананд, бурхан, гэрэлт хүрээ, 7 аяга, 6 зул — шөнө гэрэлтэнэ, ваар, таваг, хүж, хадаг) · `rows { len: 1.6, cushion: 0.62, tableOff: 0.62 }` (олбог, ширээ, судар — төв зам руу) · `pillars { x: 1.6, z: [-1.6, 1.4], size: 0.22 }` (хадаг, дам нуруу, ялгаа) · `wheel { x: 3.75, z: 3.45, r: 0.34, h: 1.1, bandH: 0.5 }` (хүрд, бичгийн зурвас тойргийн уртад харьцаагаа хадгална) · `lamps [[-1.6,0],[1.6,0],[0,-3],[0,2.4]]`. Таазтай үед лабораторийн камер өрөөн дотор (таазны доор) хязгаарлагдана.
+
+**data/interiors.json `rooms.temple.spots`-д нэмэх:**
+```json
+{ "id": "lama_head",    "kind": "work",  "x": -2.82, "z": -2.7, "rot": 1.57 },
+{ "id": "lama_read",    "kind": "work",  "x": -2.82, "z": -1.0, "rot": 1.57 },
+{ "id": "lama_drum",    "kind": "work",  "x": 2.82,  "z": -2.7, "rot": -1.57 },
+{ "id": "pilgrim",      "kind": "work",  "x": 0,     "z": -1.9, "rot": 3.14 },
+{ "id": "drum",         "kind": "drum",  "x": 1.87,  "z": -2.7, "rot": -1.57 },
+{ "id": "prayer_wheel", "kind": "wheel", "x": 3.75,  "z": 3.45, "rot": 0 }
+```
+Тэмдэглэл: тахил spot `altar`-ын x-ээр хойд хананд тулна; ширээт ламын өндөр суудал `lama_head` дээр.
+
 ## Зогссон цэг
 
 Дүрслэл V0–V6: V0–V3 кодонд (V3.1, V3.2 2026-11-15), V4.0–V4.2 кодонд (V4.2 2026-11-15), V5.0, V5.3 кодонд (V5.3 2026-11-15); V5.1/V5.4 хэмжилт, V5.2 V-7 шийдвэр хүлээж байна. V.Z зургууд `tools/shots/` (2026-11-15). Агентын үлдсэн ажил: V3.5 (барилга), V4.6 (мал амьтан), V5.2 (UI хээ, лого), V6.2–V6.3 (V6.1 кодонд 2026-11-15). Хэрэглэгчээс: M.2/M.3 FPS хэмжилт → V5.1 (bloom/LUT/AA/AO) → V5.4, V-7 → V5.2, M.4 батлах ([[playtest]]). Дараагийн алхам: V4.6 мал амьтны лаборатори (хэрэглэгч батлах), зэрэг V3.5, V6.2.
